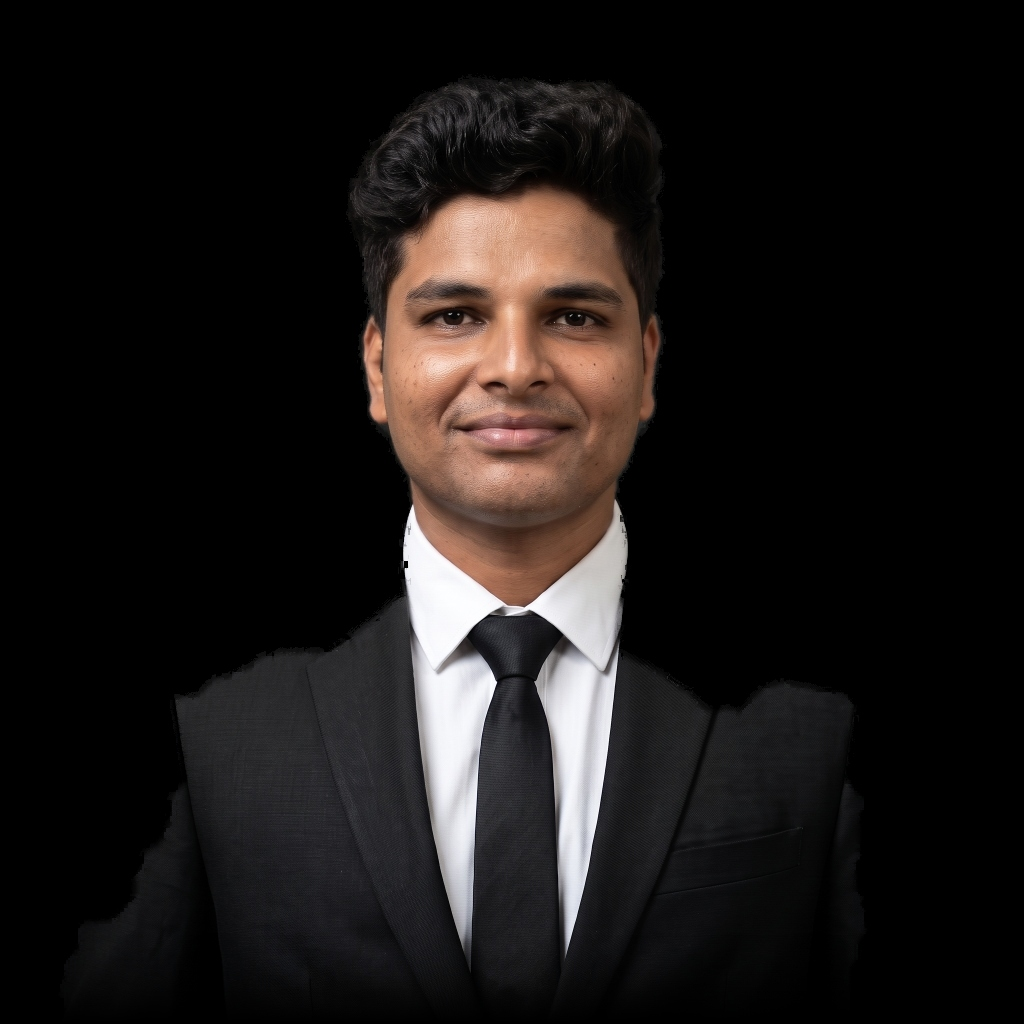
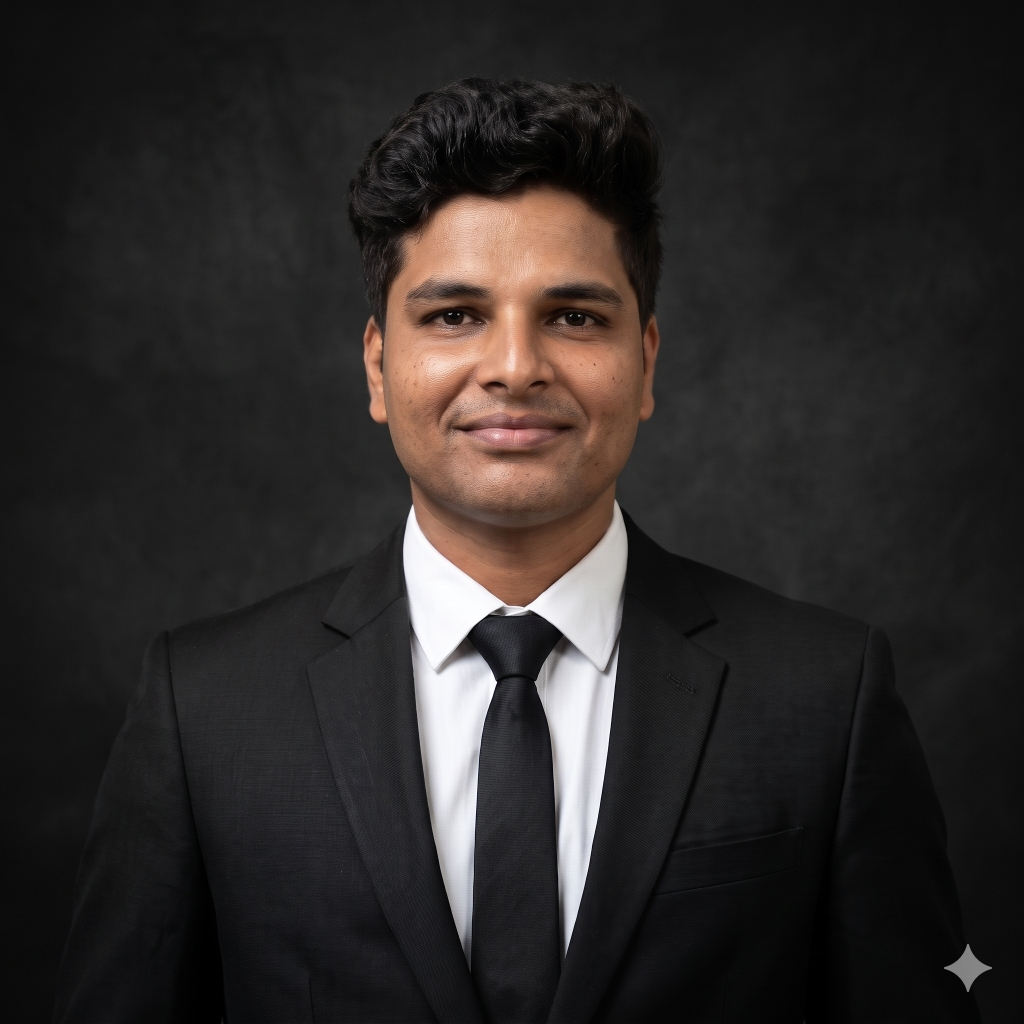
feat(hero): integrate user original uploaded photograph directly as portrait-hero.png

diff --git a/src/components/Hero.jsx b/src/components/Hero.jsx
@@ -205,16 +205,16 @@ export default function Hero({ onPreloadComplete }) {
         </div>
       </div>
 
-      {/* Layer 2: Authentic Professional Portrait Cutout (Overlapping Center of Title) */}
+      {/* Layer 2: Authentic Professional Portrait (Positioned in Front of PORTFOLIO Typography) */}
       <div
         ref={personRef}
         className="relative z-10 text-center text-white flex flex-col items-center w-full pointer-events-none translate-y-[100vh] will-change-transform"
       >
-        <div className="relative w-full max-w-[290px] sm:max-w-[340px] md:max-w-[420px] lg:max-w-[460px] flex items-end justify-center">
+        <div className="relative w-full max-w-[320px] sm:max-w-[380px] md:max-w-[440px] lg:max-w-[480px] flex items-end justify-center">
           <img
             src="/images/portrait-hero.png"
             alt="Jeevanantham A — AI Engineer"
-            className="w-full object-contain object-bottom drop-shadow-[0_20px_45px_rgba(0,0,0,0.85)]"
+            className="w-full h-auto object-contain object-bottom drop-shadow-[0_20px_45px_rgba(0,0,0,0.85)]"
           />
         </div>
       </div>
